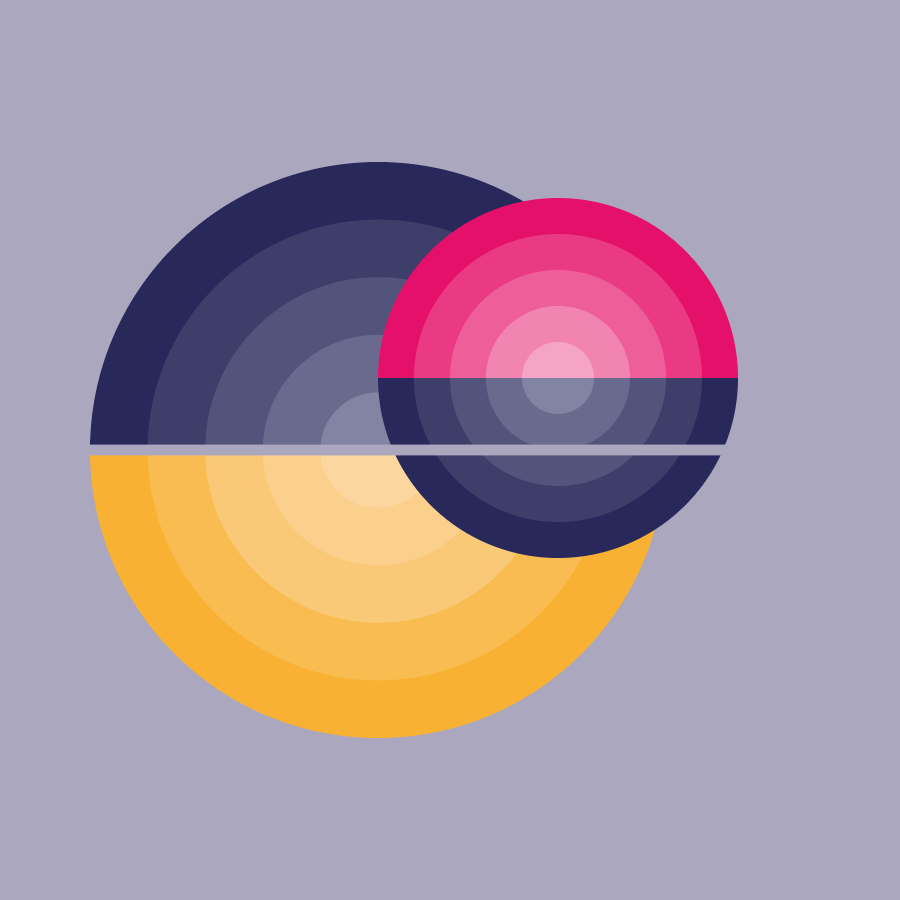
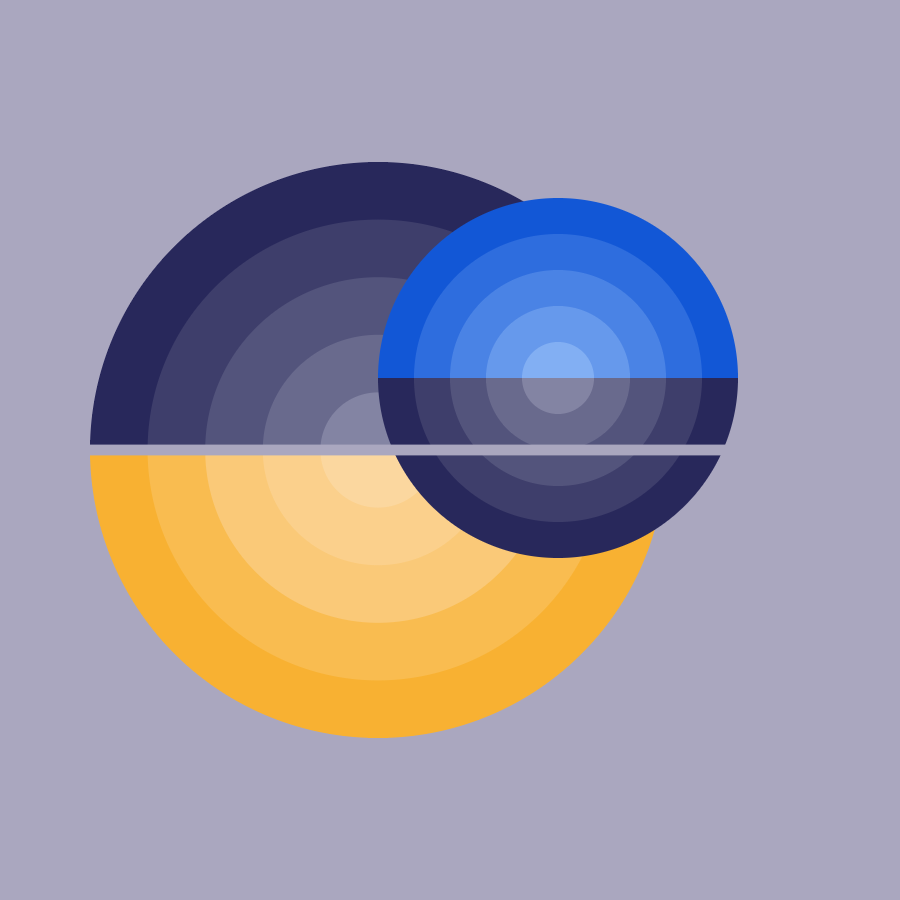
feat(design): design system O2M v1.4 — axes des dials, en-tête détaché
Suit CLAUDE_CODE.md du handoff O2m (4). Seuls o2m.css et 3 pochettes changent
côté assets : o2m-marks.js et les icônes sont identiques à la v1.3.1.

Ce que le système apporte :
- thème Bulletin : l'accent passe du magenta #E4106A au bleu #1257D6, avec
  --secondary ambre et --signal qui récupère le magenta. La matrice suit.
- nouveaux tokens : --header-bg/--header-border, --c-opening/--c-mood,
  --t-hero, --secondary, --signal

Vérifié : dark/mono/overprint/invert ne gagnent QUE les nouveaux tokens, aucune
valeur existante modifiée. Seul bulletin change, volontairement.

Côté code :
- §2d — les deux potards de la vue Basic étaient en cyan/orange EN DUR (les
  trois autres étaient déjà tokenisés par id). Axe posé via data-axis
  opening/mood + classes fill/knob attendues par le système, couleurs locales
  supprimées. Ils suivent maintenant --c-opening / --c-mood par thème.
- §2e — #top-zone prend --header-bg / --header-border, avec repli sur
  --surface / --border pour ne rien changer là où un thème ne les surcharge pas.

Écart relevé dans le handoff : sa section 5 annonce encore « bulletin →
#E4106A » alors que le CSS livré pose #1257D6. Le CSS fait foi (c'est la source
de vérité visuelle) ; la ligne de vérification du document est restée sur la
v1.3.1.

§2f (échelle typographique) n'est pas dans ce lot : le handoff le qualifie
lui-même de « chantier à part ». 102 littéraux font-size, dont la majorité sans
[…]

Changed region(s): [[0.4044, 0.2178, 0.84, 0.4356]]

diff --git a/o2m/static/ds/o2m.css b/o2m/static/ds/o2m.css
@@ -39,6 +39,9 @@
   --t-h1:      clamp(34px, 5vw, 60px);
   --t-h2:      30px;  --t-h3: 21px;
   --t-body-l:  17px;  --t-body: 15px;  --t-body-s: 13px;  --t-label: 11px;
+  /* Now-playing headline. Fluid so it holds up from a narrow column to a wide
+     header, and large enough that the title is the loudest thing on screen. */
+  --t-hero:    clamp(26px, 3.2vw, 44px);
 
   /* Geometry — O2M is square; curvature only for true circles */
   --radius: 0px;  --r-pill: 999px;
@@ -67,6 +70,16 @@
 
   /* Destructive actions only (delete). Inherited by every theme. */
   --danger: #E5484D;
+
+  /* Secondary hue and rare true-alert signal. Themes that have no second hue
+     resolve both to the accent, so a component can reference them safely. */
+  --secondary: var(--accent);
+  --signal:    var(--accent);
+
+  /* Header band. Themes set --header-bg to a real step off --bg so the top zone
+     reads as a distinct plane; --surface is the fallback for older markup. */
+  --header-bg:     var(--surface);
+  --header-border: var(--border);
 
   /* ---- v1.0 → v1.1 ALIASES (keep older markup / the reference page working) ---- */
   --o2m-orange:        var(--accent);
@@ -100,6 +113,8 @@
   --ring-a-1:#9C9486; --ring-a-2:#ADA598; --ring-a-3:#BEB7AA; --ring-a-4:#D0CABD; --ring-a-5:#F3EEE3;
   --ring-b-1:#FF5A00; --ring-b-2:#FF7526; --ring-b-3:#FF9152; --ring-b-4:#FFAE81; --ring-b-5:#FFCBAF;
   --c-energy:var(--text); --c-valence:var(--muted); --c-dl:var(--accent); --dial-txt:var(--text);
+  --c-opening:#D0CABD; --c-mood:#FF5A00;
+  --header-bg:#1C1812; --header-border:rgba(243,238,227,.16);
   --eyebrow-color:#FF5A00;
   --mx-bg:#1C1812;
   --mx-q-calm:rgba(243,238,227,.03); --mx-q-happy:rgba(243,238,227,.06);
@@ -113,14 +128,16 @@
   color-scheme: dark;
 }
 
-/* BULLETIN — replaces the old warm-orange "Light". Inspired by the Clemi-family
-   reference set: navy ink, amber secondary, magenta as the live signal, on cream.
-   NOTE: this is the one theme that does NOT run on orange. Its accent is magenta
-   because amber sits too close to the cream ground to carry contrast. The keys
-   `creme` and `light` are kept as aliases so shipped code needs no edit. */
+/* BULLETIN — replaces the old warm-orange "Light". Navy ink, amber secondary, cream ground.
+   v1.4: the live accent is AZURE, not magenta. Magenta read as a third hue fighting the
+   navy/amber pair once it landed on every control in production. Azure is a near-relative
+   of the navy ink, so the accent now reads as the ink turned up rather than as a fourth
+   colour; amber stays the secondary and keeps the ring ramps. Magenta survives as
+   `--signal`, for the rare true alert. `creme` and `light` remain aliases. */
 [data-theme="bulletin"], [data-theme="creme"], [data-mode="light"] {
   --bg:#FEEBCF; --surface:#FBDFB7; --card:#FFF7EB; --raised:#FFFFFF;
-  --accent:#E4106A; --accent-press:#C60D5C; --accent-soft:#E4106A1a; --on-accent:#FFFFFF;
+  --accent:#1257D6; --accent-press:#0E45AC; --accent-soft:#1257D614; --on-accent:#FFFFFF;
+  --secondary:#F8B132; --signal:#E4106A;
   --text:#28285B; --muted:#6E6A8C; --faint:#A9A4BE;
   --border:rgba(40,40,91,.18); --border-soft:rgba(40,40,91,.09); --border-strong:rgba(40,40,91,.38);
   --fill-1:rgba(40,40,91,.04); --fill-2:rgba(40,40,91,.08); --fill-3:rgba(40,40,91,.14);
@@ -129,15 +146,17 @@
   --ring-a-1:#28285B; --ring-a-2:#3E3E6B; --ring-a-3:#53547C; --ring-a-4:#696A8D; --ring-a-5:#8384A3;
   --ring-b-1:#F8B132; --ring-b-2:#F9BC50; --ring-b-3:#FAC978; --ring-b-4:#FBD08C; --ring-b-5:#FBD79F;
   --c-energy:var(--text); --c-valence:var(--muted); --c-dl:var(--accent); --dial-txt:var(--text);
-  --head-weight:800; --head-spacing:-.015em; --eyebrow-color:#E4106A;
+  --c-opening:#1257D6; --c-mood:#C98A12;
+  --header-bg:#FBDFB7; --header-border:rgba(40,40,91,.20);
+  --head-weight:800; --head-spacing:-.015em; --eyebrow-color:#1257D6;
   --mx-bg:#FFF7EB;
-  --mx-q-calm:rgba(40,40,91,.035); --mx-q-happy:rgba(248,177,50,.14);
-  --mx-q-dark:rgba(40,40,91,.10); --mx-q-energetic:rgba(228,16,106,.07);
+  --mx-q-calm:rgba(40,40,91,.03); --mx-q-happy:rgba(40,40,91,.055);
+  --mx-q-dark:rgba(40,40,91,.10); --mx-q-energetic:rgba(18,87,214,.06);
   --mx-line:rgba(40,40,91,.16); --mx-border:transparent;
   --mx-label:rgba(40,40,91,.28); --mx-axis:rgba(40,40,91,.42);
-  --mx-dl-fill:rgba(228,16,106,.06); --mx-dl-stroke:rgba(228,16,106,.45);
-  --mx-dot-core:#FFF6E7; --mx-pulse:228,16,106;
-  --mood-happy:248,177,50; --mood-energetic:228,16,106;
+  --mx-dl-fill:rgba(18,87,214,.06); --mx-dl-stroke:rgba(18,87,214,.45);
+  --mx-dot-core:#FFF6E7; --mx-pulse:18,87,214;
+  --mood-happy:248,177,50; --mood-energetic:18,87,214;
   --mood-calm:110,106,140; --mood-dark:40,40,91;
   color-scheme: light;
 }
@@ -154,6 +173,8 @@
   --ring-a-1:#000000; --ring-a-2:#2B2B2B; --ring-a-3:#565656; --ring-a-4:#818181; --ring-a-5:#ACACAC;
   --ring-b-1:#ff3b00; --ring-b-2:#FF6033; --ring-b-3:#FF8566; --ring-b-4:#FFAA99; --ring-b-5:#FFCFCC;
   --c-energy:#111111; --c-valence:#888888; --c-dl:#ff3b00; --dial-txt:#000000;
+  --c-opening:#565656; --c-mood:#111111;
+  --header-bg:#F2F2F2; --header-border:#00000022;
   --mx-bg:#f4f4f4;
   --mx-q-calm:#00000005; --mx-q-happy:#0000000b;
   --mx-q-dark:#00000012; --mx-q-energetic:#00000008;
@@ -179,6 +200,8 @@
   --ring-a-1:#000000; --ring-a-2:#2B2B2B; --ring-a-3:#565656; --ring-a-4:#818181; --ring-a-5:#ACACAC;
   --ring-b-1:#ff5a00; --ring-b-2:#FF7526; --ring-b-3:#FF9152; --ring-b-4:#FFAE81; --ring-b-5:#FFCBAF;
   --c-energy:#111111; --c-valence:#888888; --c-dl:#ff5a00; --dial-txt:#000000;
+  --c-opening:#565656; --c-mood:#ff5a00;
+  --header-bg:#F5F1EC; --header-border:#00000022;
   --mx-bg:#f4f4f4;
   --mx-q-calm:#00000005; --mx-q-happy:#0000000b;
   --mx-q-dark:#00000012; --mx-q-energetic:#00000008;
@@ -204,6 +227,8 @@
   --ring-a-1:#777777; --ring-a-2:#959595; --ring-a-3:#B3B3B3; --ring-a-4:#D1D1D1; --ring-a-5:#FFFFFF;
   --ring-b-1:#ff3b00; --ring-b-2:#FF6033; --ring-b-3:#FF8566; --ring-b-4:#FFAA99; --ring-b-5:#FFCFCC;
   --c-energy:#ffffff; --c-valence:#888888; --c-dl:var(--hero-accent,#ff3b00); --dial-txt:#ffffff;
+  --c-opening:#B3B3B3; --c-mood:var(--hero-accent,#ff3b00);
+  --header-bg:#141414; --header-border:#ffffff1f;
   --mx-bg:#161616;
   --mx-q-calm:#ffffff04; --mx-q-happy:#ffffff09;
   --mx-q-dark:#ffffff0f; --mx-q-energetic:#ffffff07;
@@ -328,6 +353,27 @@ button { font: inherit; color: inherit; }
    -------------------------------------------------------------------------- */
 .o2m-card { background: var(--card); border: var(--line-1) solid var(--border); border-radius: var(--radius); padding: var(--sp-5); }
 .o2m-card--flush { padding: 0; overflow: hidden; }
+
+/* Header band — the top zone must read as a plane of its own, not as the page
+   with content on it. One rule, every theme: a real ground step plus a closing
+   rule at the bottom edge. */
+.o2m-header {
+  background: var(--header-bg);
+  border-bottom: var(--line-1) solid var(--header-border);
+}
+
+/* Hero title — the now-playing headline. The app was sizing this by hand; this
+   is the scale the system intends, and it is fluid so it survives narrow columns. */
+.o2m-hero-title {
+  font-family: var(--font-head);
+  font-weight: var(--head-weight);
+  font-size: var(--t-hero);
+  line-height: .98;
+  letter-spacing: var(--head-spacing);
+  text-transform: var(--head-transform);
+  color: var(--accent);
+  text-wrap: balance;
+}
 
 .o2m-field { width:100%; background: var(--surface); border: var(--line-1) solid var(--border); border-radius: var(--radius); color: var(--text); padding: 11px 14px; font: inherit; transition: border-color var(--fast); }
 .o2m-field::placeholder { color: var(--faint); }
@@ -474,6 +520,12 @@ button { font: inherit; color: inherit; }
 .o2m-dial[data-axis="valence"] .knob { fill:   var(--c-valence); }
 .o2m-dial[data-axis="dl"]      .fill { stroke: var(--c-dl); }
 .o2m-dial[data-axis="dl"]      .knob { fill:   var(--c-dl); }
+/* Basic-view dials. These shipped with hard-coded cyan and orange, which belonged
+   to no theme — they now draw from the theme like every other axis. */
+.o2m-dial[data-axis="opening"] .fill { stroke: var(--c-opening, var(--muted)); }
+.o2m-dial[data-axis="opening"] .knob { fill:   var(--c-opening, var(--muted)); }
+.o2m-dial[data-axis="mood"]    .fill { stroke: var(--c-mood, var(--accent)); }
+.o2m-dial[data-axis="mood"]    .knob { fill:   var(--c-mood, var(--accent)); }
 .o2m-dial .val, .o2m-dial .center-label { fill: var(--dial-txt, var(--text)); }
 
 /* ----------------------------------------------------------------------------

diff --git a/o2m/static/mood.html b/o2m/static/mood.html
@@ -116,8 +116,10 @@
 
   /* ── Top zone: cover column + info/controls on the right ── */
   #top-zone {
-    display: flex; align-items: stretch; background: var(--surface);
-    border-bottom: 1px solid var(--border); flex-shrink: 0;
+    /* En-tête détaché du corps : le système fournit une paire dédiée qui retombe
+       sur --surface / --border là où un thème ne la surcharge pas. */
+    display: flex; align-items: stretch; background: var(--header-bg, var(--surface));
+    border-bottom: 1px solid var(--header-border, var(--border)); flex-shrink: 0;
     /* Display cutout (camera hole): with viewport-fit=cover the page extends under
        the status-bar strip in fullscreen/PWA. The inset becomes padding so the
        top-zone background claims that strip while content stays clear of the
@@ -1774,35 +1776,35 @@
              dial's bottom-left/top/bottom-right label positions (indices 0/2/4 of
              its 5-slot layout land exactly there). Appearance only — still the
              same continuous discover_level(0-10) underneath, just snapped. -->
-        <svg class="dial-svg" id="dial-bdl" width="196" height="136" viewBox="-33 -14 176 126">
+        <svg class="dial-svg o2m-dial" data-axis="opening" id="dial-bdl" width="196" height="136" viewBox="-33 -14 176 126">
           <circle class="dial-track" cx="55" cy="55" r="42" transform="rotate(135 55 55)"/>
-          <circle class="dial-fill" id="fill-bdl" cx="55" cy="55" r="42"
-                  stroke="#00bcd4" transform="rotate(135 55 55)"/>
+          <circle class="dial-fill fill" id="fill-bdl" cx="55" cy="55" r="42"
+                  transform="rotate(135 55 55)"/>
           <text class="bdl-lbl" data-i="0" x="16" y="99"  text-anchor="end">focused</text>
           <text class="bdl-lbl" data-i="2" x="55" y="-4"  text-anchor="middle">regular</text>
           <text class="bdl-lbl" data-i="4" x="94" y="99"  text-anchor="start">crazy</text>
           <!-- 2 extra (unlabelled) detents between the 3 words -->
           <circle class="bdl-tick" cx="16" cy="39" r="2"/>
           <circle class="bdl-tick" cx="94" cy="39" r="2"/>
-          <circle id="knob-bdl" cx="55" cy="13" r="7" fill="#00bcd4"/>
-          <text x="55" y="60" text-anchor="middle" fill="#eaeaea" font-weight="700" id="txt-bdl">regular</text>
+          <circle class="knob" id="knob-bdl" cx="55" cy="13" r="7"/>
+          <text class="center-label" x="55" y="60" text-anchor="middle" font-weight="700" id="txt-bdl">regular</text>
         </svg>
       </div>
       <div class="dial-wrap">
         <div class="dial-label">Mood</div>
         <!-- Wider viewBox: the 5 detent labels sit around the knob, at their angle
              on the arc (135°→405°). Labels are clickable shortcuts. -->
-        <svg class="dial-svg" id="dial-bmood" width="196" height="136" viewBox="-33 -14 176 126">
+        <svg class="dial-svg o2m-dial" data-axis="mood" id="dial-bmood" width="196" height="136" viewBox="-33 -14 176 126">
           <circle class="dial-track" cx="55" cy="55" r="42" transform="rotate(135 55 55)"/>
-          <circle class="dial-fill" id="fill-bmood" cx="55" cy="55" r="42"
-                  stroke="#ff5a00" transform="rotate(135 55 55)"/>
+          <circle class="dial-fill fill" id="fill-bmood" cx="55" cy="55" r="42"
+                  transform="rotate(135 55 55)"/>
           <text class="bmood-lbl" data-i="0" x="16" y="99"  text-anchor="end">intense</text>
           <text class="bmood-lbl" data-i="1" x="0"  y="35"  text-anchor="end">calm</text>
           <text class="bmood-lbl" data-i="2" x="55" y="-4"  text-anchor="middle">normy</text>
           <text class="bmood-lbl" data-i="3" x="110" y="35" text-anchor="start">happy</text>
           <text class="bmood-lbl" data-i="4" x="94" y="99"  text-anchor="start">energetic</text>
-          <circle id="knob-bmood" cx="55" cy="13" r="7" fill="#ff5a00"/>
-          <text x="55" y="60" text-anchor="middle" fill="#eaeaea" font-weight="700" id="txt-bmood">normy</text>
+          <circle class="knob" id="knob-bmood" cx="55" cy="13" r="7"/>
+          <text class="center-label" x="55" y="60" text-anchor="middle" font-weight="700" id="txt-bmood">normy</text>
         </svg>
       </div>
     </div>
